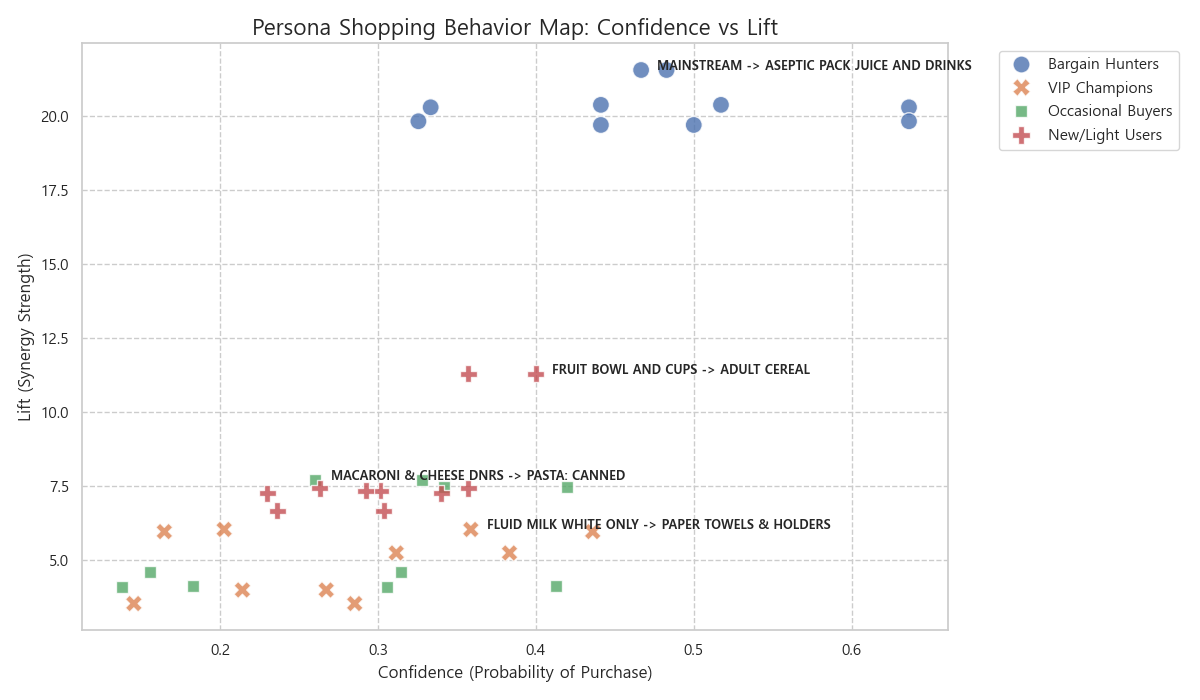
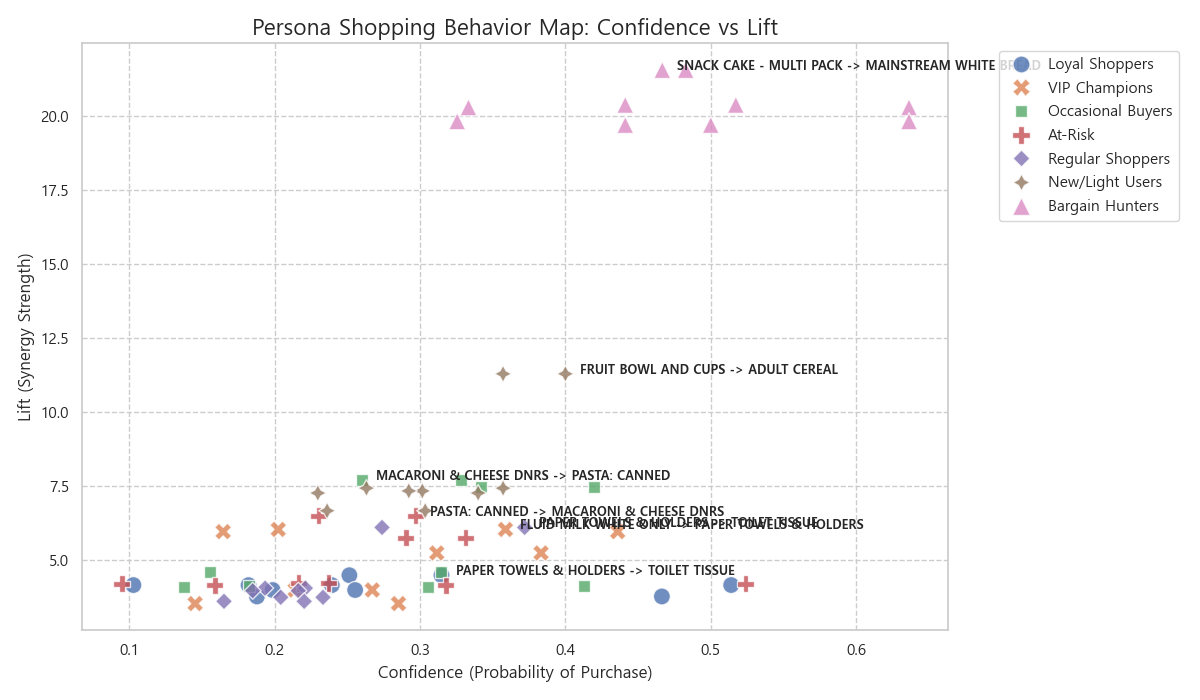
Update MBA Scatter Plot to include ALL 7 Personas for completeness

diff --git a/refine_mba_visuals.py b/refine_mba_visuals.py
@@ -22,10 +22,10 @@ df = df[~df['Category'].str.contains('FUEL', na=False, case=False)]
 segs = pd.read_csv('dunnhumby_persona_segments.csv')
 df = df.merge(segs[['CustomerID', 'persona']], on='CustomerID', how='inner')
 
-# 2. Collect Rules for Top Personas
+# 2. Collect Rules for ALL Personas
 metrics = []
-# Focus on distinctive personas for the chart
-target_personas = ['Bargain Hunters', 'VIP Champions', 'Occasional Buyers', 'New/Light Users']
+# Analyze all personas in the dataset
+target_personas = df['persona'].unique()
 
 for persona in target_personas:
     print(f"Processing {persona}...")
